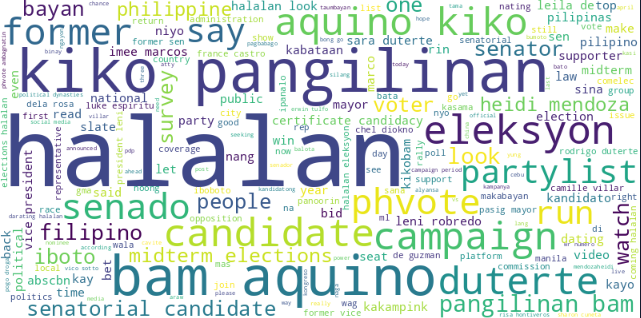
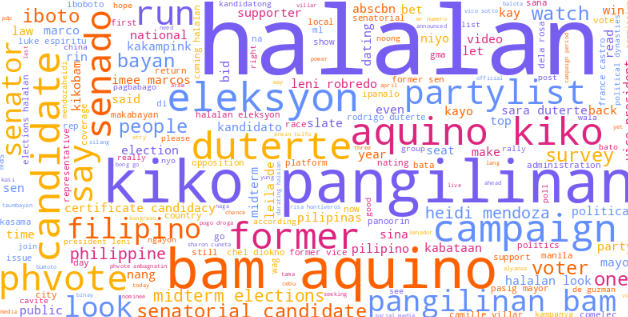
added remaining interpretations

diff --git a/site/src/lib/parts/eda.svelte b/site/src/lib/parts/eda.svelte
@@ -333,13 +333,13 @@
 				</figure>
 
 				<div class="p-5 text-right">
-					<p class="text-left text-lg underline">neutral is most common</p>
+					<p class="text-left text-lg underline">same words, different emotions</p>
 					<p class="text-left">
-						<br />In the case that multiple candidates were mentioned in a tweet, a list will be
-						returned containing the corresponding tone, polarity, and judgement per candidate
-						mentioned in that tweet. The particular model,
-						meta-llama/llama-4-maverick-17b-128e-instruct, was used for its balance between speed,
-						price, and accuracy based on its benchmarks on analysis (Artificial Index, 2025).
+						<br />Figure 8 showcases words parsed by the AI model that features a 
+						correlation with respect to a mentioned candidate. For representative heidi 
+						mendoza, an associated word relating to their persona was 'singer-songwriter', 
+						with a negative polarity. The word 'bisaya' had differing polarities for each 
+						candidate, with arlene brosas obtaining negative polarity and positive polarity for Ben Tulfo.
 					</p>
 				</div>
 			</div>
@@ -359,13 +359,15 @@
 				</figure>
 
 				<div class="p-5 text-right">
-					<p class="text-left text-lg underline">neutral is most common</p>
+					<p class="text-left text-lg underline">1 partylist 1 word</p>
 					<p class="text-left">
-						<br />In the case that multiple candidates were mentioned in a tweet, a list will be
-						returned containing the corresponding tone, polarity, and judgement per candidate
-						mentioned in that tweet. The particular model,
-						meta-llama/llama-4-maverick-17b-128e-instruct, was used for its balance between speed,
-						price, and accuracy based on its benchmarks on analysis (Artificial Index, 2025).
+						<br />The graph showcases similar context from Figure 8 but 
+						for comments featuring mentions of partylists. For figure 9, 
+						'legacy' had negative polarities for duterte youth whilst being 
+						positive for mamamayang liberal (ml) partylist. The word 'problema' 
+						also had differing polarities for bayan muna and makabayan partylist, 
+						having negative and positive polarities respectively. Other polarities 
+						had harmonious collerations with respect to the words they are associated with.
 					</p>
 				</div>
 			</div>
@@ -381,13 +383,11 @@
 			</figure>
 
 			<div class=" max-w-1/2 p-5 text-right">
-				<p class="text-left text-lg underline">neutral is most common</p>
+				<p class="text-left text-lg underline">halalan 2025?!!</p>
 				<p class="text-left">
-					<br />In the case that multiple candidates were mentioned in a tweet, a list will be
-					returned containing the corresponding tone, polarity, and judgement per candidate
-					mentioned in that tweet. The particular model,
-					meta-llama/llama-4-maverick-17b-128e-instruct, was used for its balance between speed,
-					price, and accuracy based on its benchmarks on analysis (Artificial Index, 2025).
+					<br />Figure 7 forecasts a word cloud in correspondence of the most 
+					frequent words mentioned by users. Candidates including kiko pangilinan, 
+					bam aquino, and duterte having larger prevalence over most candidates in the graph.
 				</p>
 			</div>
 		</div>
@@ -413,13 +413,13 @@
 			</figure>
 
 			<div class="max-w-1/2 border-b-2 border-l-2 border-accent p-5 text-right">
-				<p class="text-left text-lg underline">neutral is most common</p>
+				<p class="text-left text-lg underline">kiko x bam</p>
 				<p class="text-left">
-					<br />In the case that multiple candidates were mentioned in a tweet, a list will be
-					returned containing the corresponding tone, polarity, and judgement per candidate
-					mentioned in that tweet. The particular model,
-					meta-llama/llama-4-maverick-17b-128e-instruct, was used for its balance between speed,
-					price, and accuracy based on its benchmarks on analysis (Artificial Index, 2025).
+					<br />Figure 10 showcases the count of mentions in perceived judgement 
+					towards a candidate. For most representatives, frequency lies at around 
+					20-40, with the exception of kiko pangilinan and bam aquino gaining 100-120 
+					counts of perceived judgements ruled in favor. Imee marcos also gained significant 
+					traction of opposition, ranging from 40-60 mentions for netizens.
 				</p>
 			</div>
 		</div>
@@ -439,13 +439,13 @@
 			</figure>
 
 			<div class="max-w-1/2 border-l-2 border-accent p-5 text-right">
-				<p class="text-left text-lg underline">neutral is most common</p>
+				<p class="text-left text-lg underline">the plot thickens</p>
 				<p class="text-left">
-					<br />In the case that multiple candidates were mentioned in a tweet, a list will be
-					returned containing the corresponding tone, polarity, and judgement per candidate
-					mentioned in that tweet. The particular model,
-					meta-llama/llama-4-maverick-17b-128e-instruct, was used for its balance between speed,
-					price, and accuracy based on its benchmarks on analysis (Artificial Index, 2025).
+					<br />Figure 11 features perceived judgement for partylists 
+					in relation to the amount of mentions based on a user's judgement. 
+					Makabayan, duterte youth, and akbayan partylists earned high mentions 
+					of judgement towards favor of the group with noticeable oppositions 
+					from the pbbm partylist. 
 				</p>
 			</div>
 		</div>
